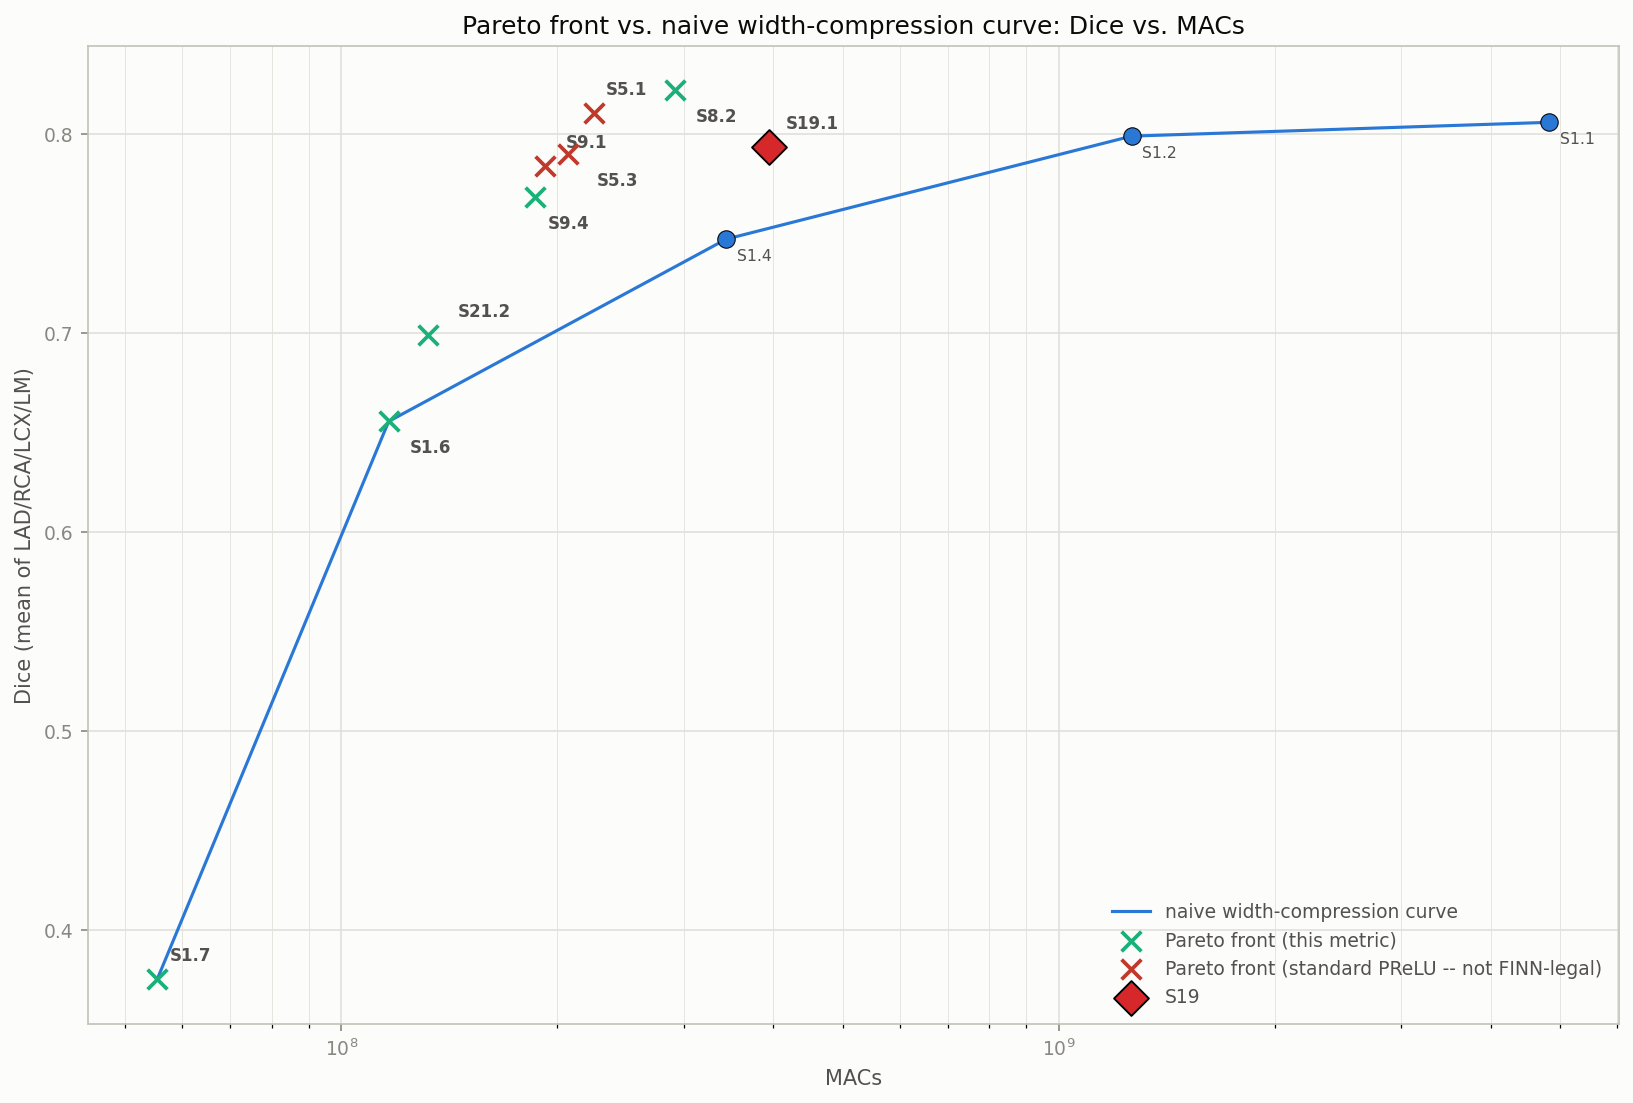
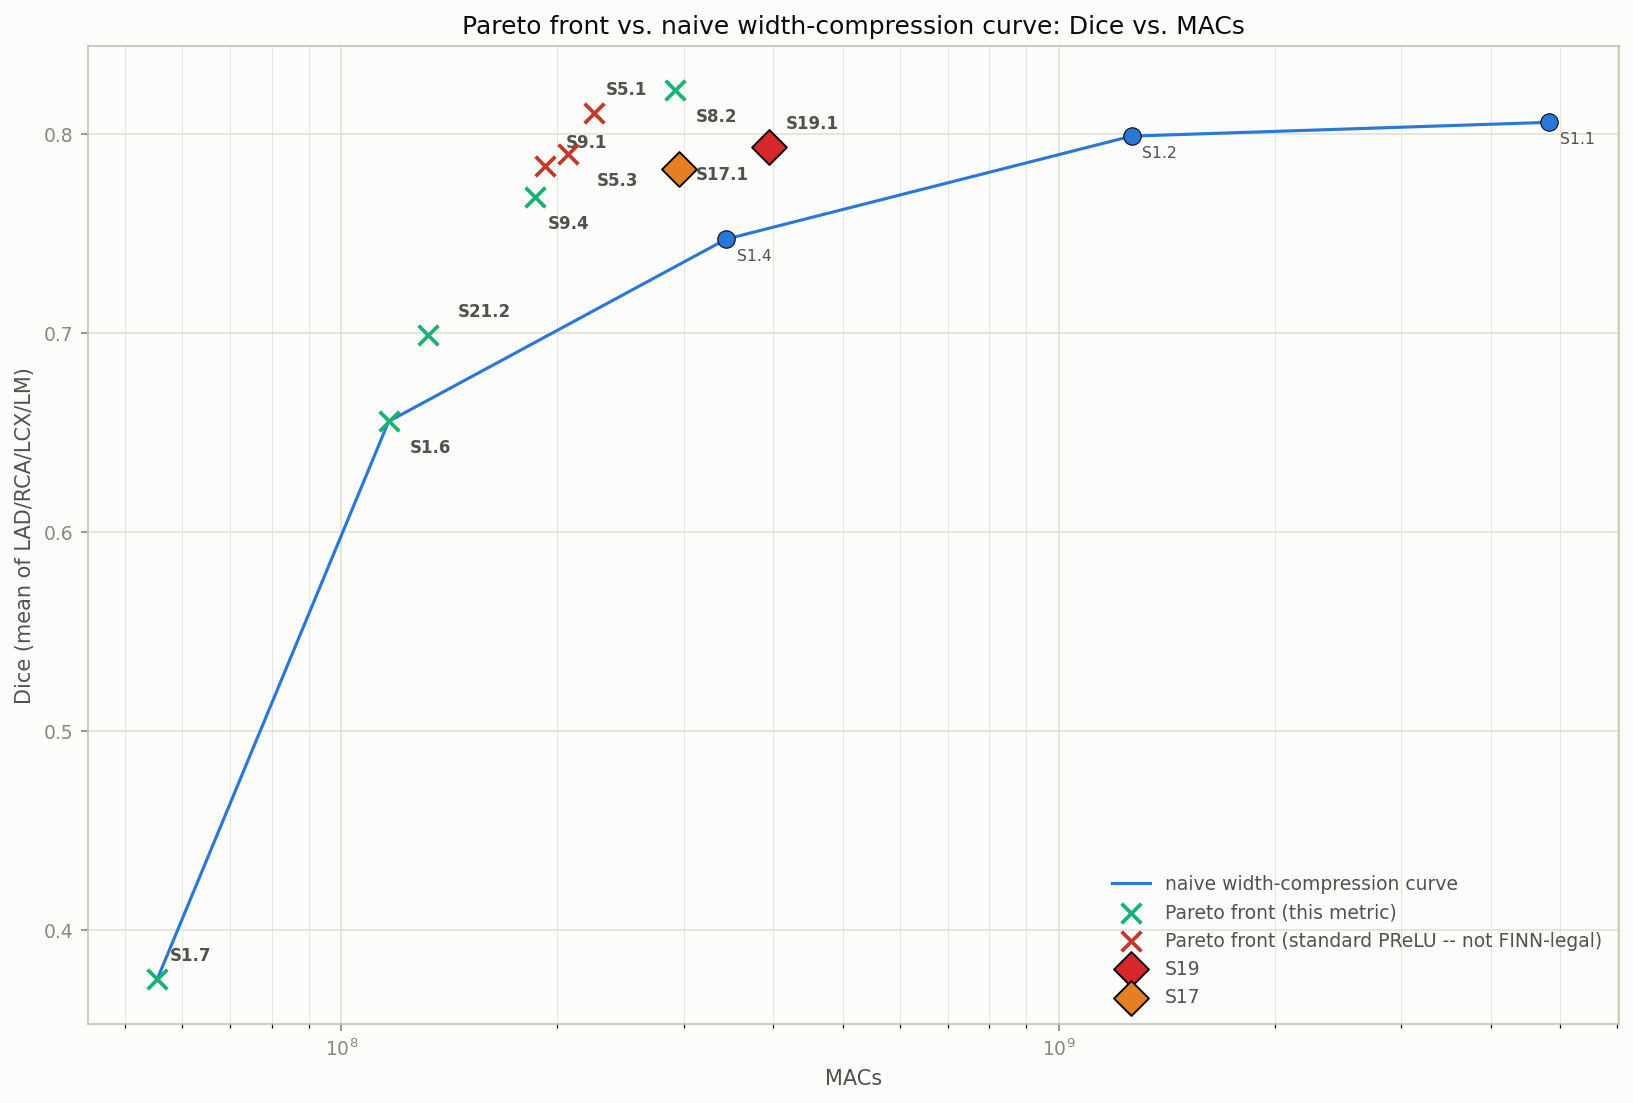
Final plots: add S17 as an orange highlighted diamond
S17 (nnUNetTrainerENet_17_separable_dense_nonneg_block_coldstart) added to
HIGHLIGHTED_CONFIGS with color #e67e22 and legend override "S17" (its own
abbrev is "S17.1"). It's S5.6's exact architecture (dense_dilation +
separable_dilated) with nonneg_block substituted for standard PReLU --
plotting it next to S5.6's red PReLU X makes that matched pair directly
visible on the figure instead of only in conversation.

Changed region(s): [[0.6871, 0.8015, 0.9057, 0.9248], [0.9057, 0.8323, 0.9682, 0.8939], [0.406, 0.1233, 0.4372, 0.185]]

diff --git a/compression/plot_final_width_comparison.py b/compression/plot_final_width_comparison.py
@@ -72,11 +72,13 @@ NAIVE_STAGE = "1_naive_baseline"
 # highlighted config.
 S19_COLDSTART_CONFIG = "nnUNetTrainerENet_19_reginterleaved_separable_nonneg_block_double_mid"
 S5_3_CONFIG = "nnUNetTrainerENet_5_3_dense_dilation_merge_pairs"
+S17_CONFIG = "nnUNetTrainerENet_17_separable_dense_nonneg_block_coldstart"
 # value = (marker color, legend label override -- None falls back to the
 # config's own config_abbreviations.csv abbrev, e.g. S5.3's "S5.3").
 HIGHLIGHTED_CONFIGS = {
     S19_COLDSTART_CONFIG: (S19_COLOR, "S19"),
     S5_3_CONFIG: ("#e6a817", None),
+    S17_CONFIG: ("#e67e22", "S17"),
 }
 
 # Runs trained via nnU-Net's own -pretrained_weights transfer (warm-started
